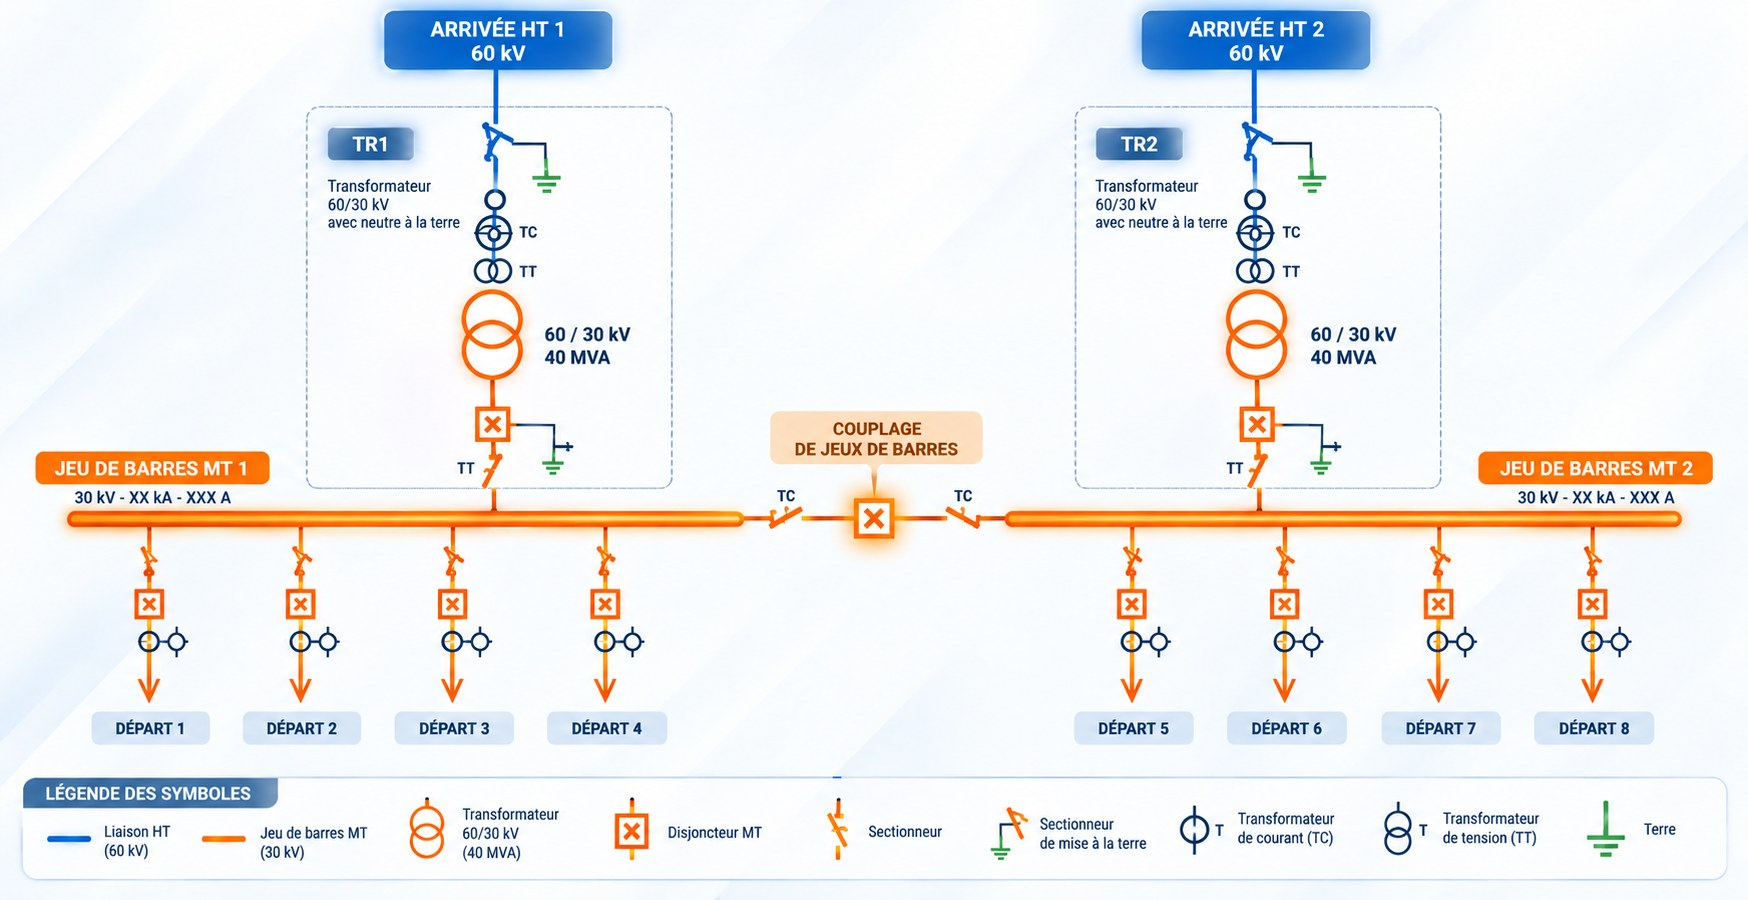
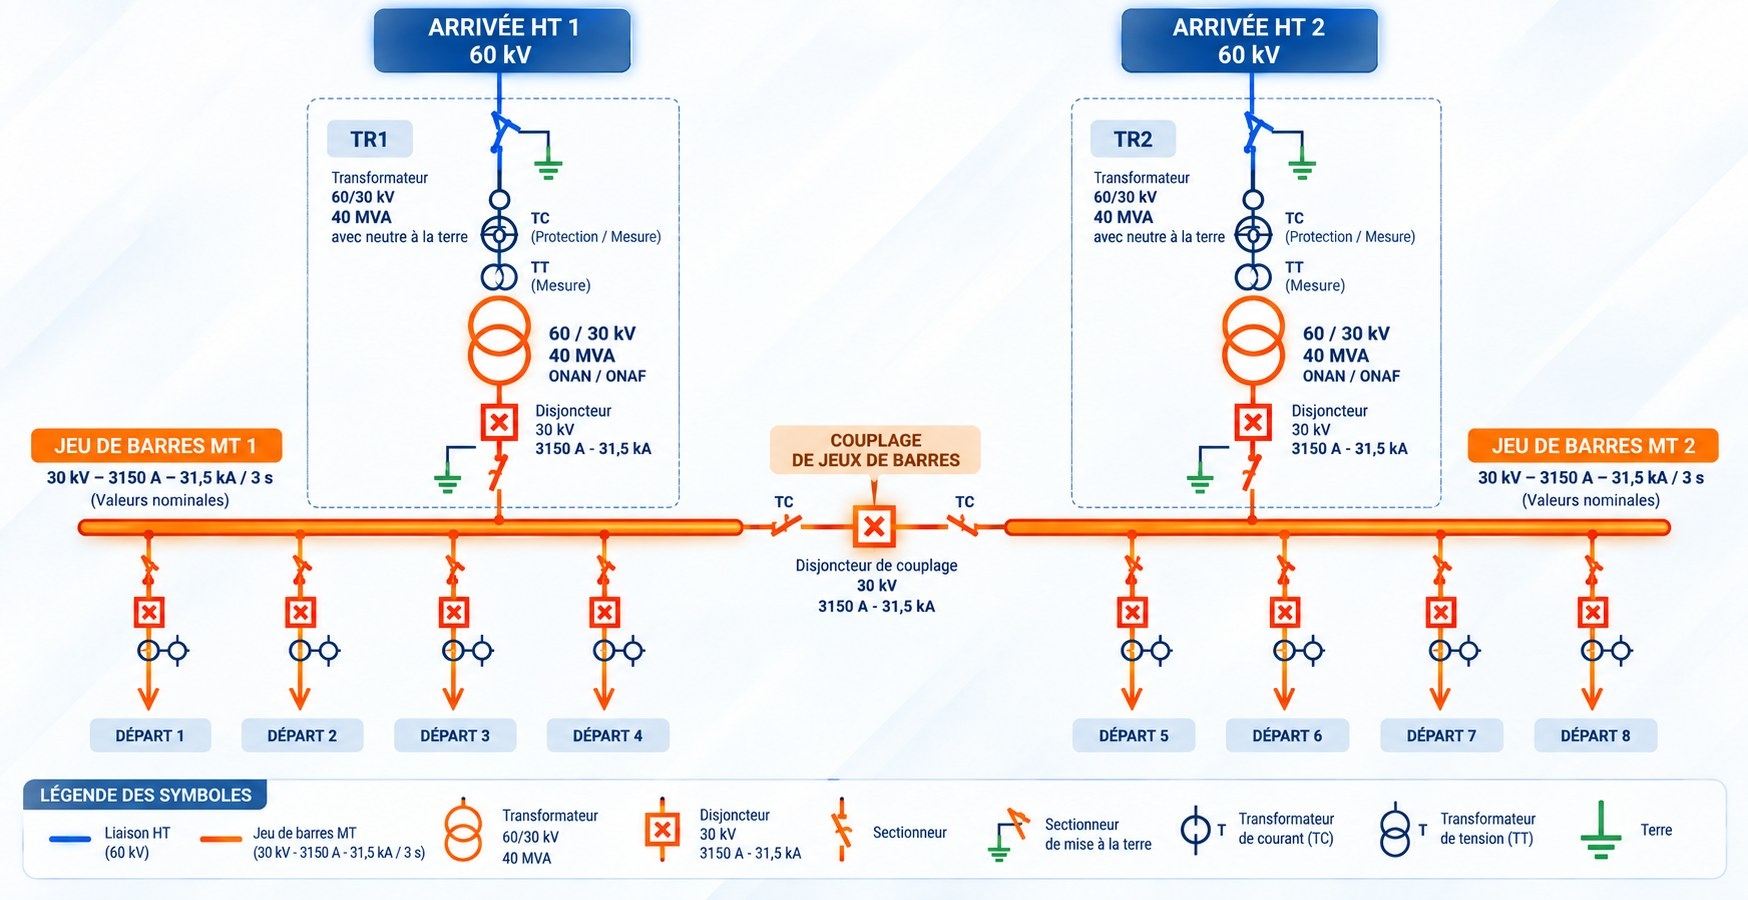
Schéma unifilaire 60/30 kV avec valeurs nominales complètes
Claude-Session: https://claude.ai/code/session_01E8iXE3mHZ9LMp7C4CPcCsU

Changed region(s): [[0.0, 0.0, 0.9886, 0.9644], [0.6796, 0.9022, 0.9577, 0.9956], [0.4634, 0.84, 0.4943, 0.8711]]

diff --git a/index.html b/index.html
@@ -149,8 +149,8 @@
       </div>
     </div>
     <figure class="sld">
-      <img src="/images/schema-unifilaire.jpg" alt="Schéma unifilaire d'un poste HT/MT : deux arrivées HT avec transformateurs TR1 et TR2, deux jeux de barres MT reliés par un couplage, huit départs" data-zoom loading="lazy">
-      <figcaption>Poste HT/MT à double alimentation avec couplage de jeux de barres. Cliquez pour agrandir.</figcaption>
+      <img src="/images/schema-unifilaire.jpg" alt="Schéma unifilaire d'un poste 60/30 kV : deux arrivées HT 60 kV, deux transformateurs 60/30 kV de 40 MVA ONAN/ONAF, deux jeux de barres 30 kV 3150 A 31,5 kA reliés par un disjoncteur de couplage, huit départs" data-zoom loading="lazy">
+      <figcaption>Poste 60/30 kV à double alimentation avec couplage de jeux de barres. Cliquez pour agrandir.</figcaption>
     </figure>
     <div class="pillars">
       <div><h3>Fiabilité</h3><p>Des installations conçues selon les normes en vigueur, testées en atelier puis sur site avant chaque mise en service.</p></div>

diff --git a/src/index.html b/src/index.html
@@ -111,8 +111,8 @@
       </div>
     </div>
     <figure class="sld">
-      <img src="/images/schema-unifilaire.jpg" alt="Schéma unifilaire d'un poste HT/MT : deux arrivées HT avec transformateurs TR1 et TR2, deux jeux de barres MT reliés par un couplage, huit départs" data-zoom loading="lazy">
-      <figcaption>Poste HT/MT à double alimentation avec couplage de jeux de barres. Cliquez pour agrandir.</figcaption>
+      <img src="/images/schema-unifilaire.jpg" alt="Schéma unifilaire d'un poste 60/30 kV : deux arrivées HT 60 kV, deux transformateurs 60/30 kV de 40 MVA ONAN/ONAF, deux jeux de barres 30 kV 3150 A 31,5 kA reliés par un disjoncteur de couplage, huit départs" data-zoom loading="lazy">
+      <figcaption>Poste 60/30 kV à double alimentation avec couplage de jeux de barres. Cliquez pour agrandir.</figcaption>
     </figure>
     <div class="pillars">
       <div><h3>Fiabilité</h3><p>Des installations conçues selon les normes en vigueur, testées en atelier puis sur site avant chaque mise en service.</p></div>

diff --git a/infrastructures-electriques.html b/infrastructures-electriques.html
@@ -79,7 +79,7 @@
       </div>
     </div>
     <figure class="sld">
-      <img src="/images/schema-unifilaire.jpg" alt="Schéma unifilaire d'un poste 60/30 kV : deux arrivées HT 60 kV, deux transformateurs 60/30 kV de 40 MVA, deux jeux de barres MT reliés par un couplage, huit départs" data-zoom loading="lazy">
+      <img src="/images/schema-unifilaire.jpg" alt="Schéma unifilaire d'un poste 60/30 kV : deux arrivées HT 60 kV, deux transformateurs 60/30 kV de 40 MVA ONAN/ONAF, deux jeux de barres 30 kV 3150 A 31,5 kA reliés par un disjoncteur de couplage, huit départs" data-zoom loading="lazy">
       <figcaption>Poste 60/30 kV à double alimentation avec couplage de jeux de barres. Cliquez pour agrandir.</figcaption>
     </figure>
   </div>

diff --git a/src/infrastructures-electriques.html b/src/infrastructures-electriques.html
@@ -41,7 +41,7 @@
       </div>
     </div>
     <figure class="sld">
-      <img src="/images/schema-unifilaire.jpg" alt="Schéma unifilaire d'un poste 60/30 kV : deux arrivées HT 60 kV, deux transformateurs 60/30 kV de 40 MVA, deux jeux de barres MT reliés par un couplage, huit départs" data-zoom loading="lazy">
+      <img src="/images/schema-unifilaire.jpg" alt="Schéma unifilaire d'un poste 60/30 kV : deux arrivées HT 60 kV, deux transformateurs 60/30 kV de 40 MVA ONAN/ONAF, deux jeux de barres 30 kV 3150 A 31,5 kA reliés par un disjoncteur de couplage, huit départs" data-zoom loading="lazy">
       <figcaption>Poste 60/30 kV à double alimentation avec couplage de jeux de barres. Cliquez pour agrandir.</figcaption>
     </figure>
   </div>
